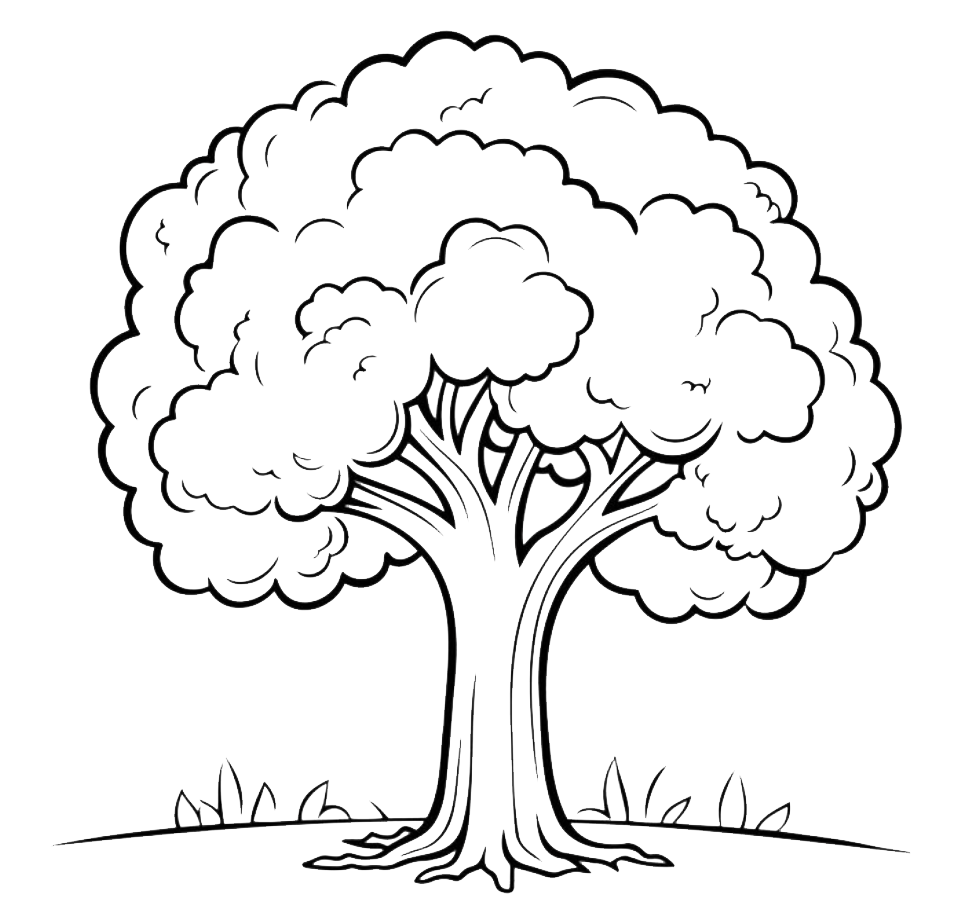
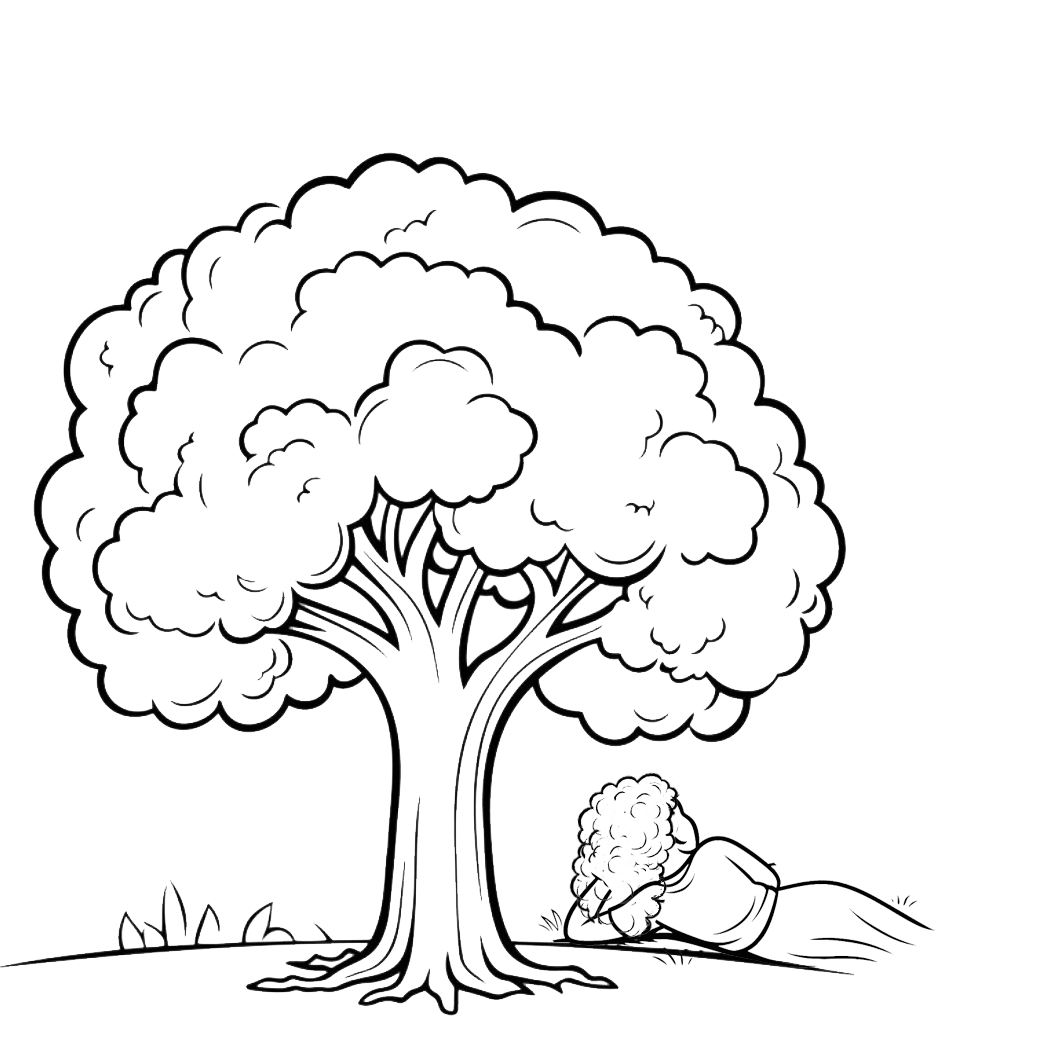
second tree added

diff --git a/src/components/WebsterLanding.js b/src/components/WebsterLanding.js
@@ -1,6 +1,13 @@
 import React from "react";
 import { motion } from "framer-motion";
 
+// ⭐ Generate consistent star config shared between top and bottom
+const STAR_CONFIGS = Array.from({ length: 12 }).map(() => ({
+  delay: 6.5 + Math.random() * 2,
+  left: Math.random() * 100,
+  top: 72 + Math.random() * 192,
+}));
+
 // ⭐ Floating Star Animation
 const Star = ({ delay, left, top }) => (
   <motion.svg
@@ -12,7 +19,7 @@ const Star = ({ delay, left, top }) => (
     strokeLinecap="round"
     strokeLinejoin="round"
     className="absolute w-6 h-6 z-20"
-    style={{ left, top }}
+    style={{ left: `${left}%`, top: `${top}px` }}
     initial={{ opacity: 0, y: -50 }}
     animate={{ opacity: 1, y: 0 }}
     transition={{ duration: 2, delay }}
@@ -21,7 +28,6 @@ const Star = ({ delay, left, top }) => (
   </motion.svg>
 );
 
-// ☁ Cloud sweep animation
 const CloudSweep = () => (
   <motion.img
     src="/images/clouds.png"
@@ -33,7 +39,6 @@ const CloudSweep = () => (
   />
 );
 
-// 💥 Logo + Sparkle Explosion (centered)
 const LogoExplosion = () => {
   const sparkles = Array.from({ length: 40 }, () => {
     const angle = Math.random() * 2 * Math.PI;
@@ -46,7 +51,6 @@ const LogoExplosion = () => {
 
   return (
     <div className="absolute top-[0.5in] left-1/2 transform -translate-x-1/2 -translate-y-1/2 z-[50] w-72 h-40 flex items-center justify-center">
-      {/* 💎 Sparkles */}
       {sparkles.map((sparkle, i) => (
         <motion.img
           key={i}
@@ -67,8 +71,6 @@ const LogoExplosion = () => {
           }}
         />
       ))}
-
-      {/* 🌟 Logo */}
       <motion.div
         className="z-[55]"
         initial={{ x: 300, opacity: 0 }}
@@ -85,35 +87,50 @@ const LogoExplosion = () => {
   );
 };
 
+const ConnectingLine = ({ x1, y1, x2, y2, delay }) => (
+  <motion.svg
+    className="absolute z-10"
+    style={{ left: 0, top: 0 }}
+    width="100%"
+    height="100%"
+  >
+    <motion.line
+      x1={`${x1}%`}
+      y1={y1}
+      x2={`${x2}%`}
+      y2={y2}
+      stroke="black"
+      strokeDasharray="4"
+      strokeWidth="2"
+      initial={{ opacity: 0 }}
+      animate={{ opacity: 1 }}
+      transition={{ delay, duration: 0.6 }}
+    />
+  </motion.svg>
+);
+
 const WebsterLanding = () => {
   return (
     <div className="min-h-screen w-full relative font-sans overflow-hidden bg-white">
-      {/* 🌅 Background image */}
       <div
         className="absolute top-0 left-0 w-full h-full bg-cover bg-center z-[1]"
         style={{ backgroundImage: "url('/images/sunlit.jpg')" }}
       ></div>
 
-      {/* ☁ Cloud sweep */}
       <CloudSweep />
 
-      {/* ✨ Star clusters */}
-      {[6.5, 7.5, 8.5].map((baseDelay, groupIndex) =>
-        [...Array(4)].map((_, i) => (
-          <Star
-            key={`group${groupIndex}-${i}`}
-            delay={baseDelay + Math.random() * 0.5}
-            left={`${Math.random() * 100}%`}
-            top={`calc(0in + ${72 + Math.random() * 192}px)`}
-          />
-        ))
-      )}
+      {STAR_CONFIGS.map((star, i) => (
+        <Star
+          key={`top-star-${i}`}
+          delay={star.delay}
+          left={star.left}
+          top={star.top}
+        />
+      ))}
 
-      {/* 🌠 Logo + Sparkles (centered over entire screen) */}
       <LogoExplosion />
 
-      {/* 📝 Text Block — Left Aligned */}
-      <div className="relative z-[40] flex flex-col justify-start items-start min-h-screen px-8 pt-[65vh] text-left">
+      <div className="relative z-[40] flex flex-col justify-start items-start min-h-screen px-8 pt-[35vh] text-left">
         <motion.div
           initial={{ opacity: 0, y: 30 }}
           animate={{ opacity: 1, y: 0 }}
@@ -132,10 +149,53 @@ const WebsterLanding = () => {
           <motion.img
             src="/images/tree.png"
             alt="Tree"
-            className="w-24 h-auto"
+            className="w-64 h-auto -mt-[0.5in] scale-100"
             initial={{ opacity: 0, x: -100 }}
             animate={{ opacity: 1, x: 0 }}
             transition={{ delay: 10.7, duration: 1, ease: "easeOut" }}
+          />
+        </motion.div>
+
+        <div className="relative w-full h-64 -mt-16 z-[30]">
+          {STAR_CONFIGS.map((star, i) => (
+            <React.Fragment key={`bottom-star-${i}`}>
+              <Star delay={star.delay + 6} left={star.left} top={star.top} />
+              {i % 2 === 0 && i < STAR_CONFIGS.length - 1 && (
+                <ConnectingLine
+                  x1={star.left}
+                  y1={star.top}
+                  x2={STAR_CONFIGS[i + 1].left}
+                  y2={STAR_CONFIGS[i + 1].top}
+                  delay={star.delay + 6.3}
+                />
+              )}
+            </React.Fragment>
+          ))}
+        </div>
+
+        <motion.div
+          initial={{ opacity: 0, y: 30 }}
+          animate={{ opacity: 1, y: 0 }}
+          transition={{ delay: 14.2, duration: 1.5, ease: "easeOut" }}
+          className="text-black p-6 max-w-md ml-auto text-right"
+        >
+          <motion.h2
+            className="text-xl md:text-3xl italic mb-4"
+            initial={{ opacity: 0, x: 100 }}
+            animate={{ opacity: 1, x: 0 }}
+            transition={{ delay: 14.2, duration: 1, ease: "easeOut" }}
+          >
+            Then I learned to connect the stars{" "}
+            <span className="not-italic">(with code)</span>
+          </motion.h2>
+
+          <motion.img
+            src="/images/tree.png"
+            alt="Tree"
+            className="w-64 h-auto -mt-[0.5in] ml-auto scale-[3]"
+            initial={{ opacity: 0, x: 100 }}
+            animate={{ opacity: 1, x: 0 }}
+            transition={{ delay: 16, duration: 1, ease: "easeOut" }}
           />
         </motion.div>
       </div>
